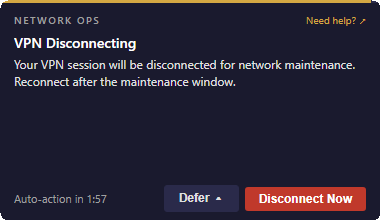
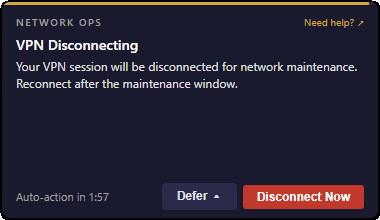
fix: Smooth rounded corners via CSS floating card + SetWindowRgn
Replace the jagged GDI-only approach with a layered strategy:
CSS border-radius on a .window-frame wrapper provides smooth
anti-aliased visual corners, a 2px black body margin gives the
radius something to clip against, and SetWindowRgn clips the
outer rectangular window to hide the black corners.

Refresh all notification screenshots with the new corners.

Changed region(s): [[0.0, 0.0, 1.0, 1.0], [0.4053, 0.8455, 0.4342, 0.9545]]

diff --git a/frontend/style.css b/frontend/style.css
@@ -18,11 +18,19 @@ html, body {
   height: 100%;
   overflow: hidden;
   font-family: "Segoe UI", -apple-system, BlinkMacSystemFont, sans-serif;
-  background: var(--bg);
+  background: #000;
   color: var(--text);
   user-select: none;
   -webkit-user-select: none;
   font-size: 13px;
+}
+
+.window-frame {
+  position: absolute;
+  inset: 2px;
+  border-radius: 8px;
+  overflow: hidden;
+  background: var(--bg);
 }
 
 .accent {

diff --git a/frontend/index.html b/frontend/index.html
@@ -7,6 +7,7 @@
   <title>Hermes</title>
 </head>
 <body>
+<div class="window-frame">
   <div class="accent bar-track"><span class="bar-fill" id="bar-fill"></span></div>
   <div class="container">
     <div class="header">
@@ -33,6 +34,7 @@
       <div id="buttons" class="button-group"></div>
     </div>
   </div>
+</div>
   <script src="main.js"></script>
 </body>
 </html>

diff --git a/cmd/root.go b/cmd/root.go
@@ -370,17 +370,17 @@ func runUI(cfg *config.NotificationConfig) {
 	wv2Path := webview2DataPath()
 
 	err := wails.Run(&options.App{
-		Title:         cfg.Title,
-		Width:         app.WindowWidth,
-		Height:        app.Height(cfg),
-		Frameless:     true,
-		AlwaysOnTop:   true,
-		DisableResize: true,
-		StartHidden:   true,
-		AssetServer:   &assetserver.Options{Assets: frontendAssets},
-		OnStartup:     a.Startup,
-		OnShutdown:    a.Shutdown,
-		Bind:          []interface{}{a},
+		Title:            cfg.Title,
+		Width:            app.WindowWidth,
+		Height:           app.Height(cfg),
+		Frameless:        true,
+		AlwaysOnTop:      true,
+		DisableResize:    true,
+		StartHidden:      true,
+		AssetServer:      &assetserver.Options{Assets: frontendAssets},
+		OnStartup:        a.Startup,
+		OnShutdown:       a.Shutdown,
+		Bind:             []interface{}{a},
 		Windows: &wopts.Options{
 			IsZoomControlEnabled: false,
 			WebviewUserDataPath:  wv2Path,

diff --git a/internal/app/corners_windows.go b/internal/app/corners_windows.go
@@ -20,13 +20,14 @@ var (
 	procGetWindowRect = modUser32.NewProc("GetWindowRect")
 )
 
-const cornerEllipse = 16
+const cornerEllipse = 20
 
 func applyRoundedCorners(title string) {
 	titlePtr, err := syscall.UTF16PtrFromString(title)
 	if err != nil {
 		return
 	}
+
 	hwnd, _, _ := procFindWindowW.Call(0, uintptr(unsafe.Pointer(titlePtr)))
 	if hwnd == 0 {
 		deck.Warningf("rounded corners: FindWindowW(%q) returned 0", title)
@@ -36,15 +37,14 @@ func applyRoundedCorners(title string) {
 	var r struct{ Left, Top, Right, Bottom int32 }
 	ret, _, _ := procGetWindowRect.Call(hwnd, uintptr(unsafe.Pointer(&r)))
 	if ret == 0 {
-		deck.Warningf("rounded corners: GetWindowRect failed")
 		return
 	}
 
 	w := uintptr(r.Right - r.Left)
 	h := uintptr(r.Bottom - r.Top)
+
 	hrgn, _, _ := procCreateRoundRectRgn.Call(0, 0, w+1, h+1, cornerEllipse, cornerEllipse)
 	if hrgn == 0 {
-		deck.Warningf("rounded corners: CreateRoundRectRgn failed")
 		return
 	}
 
